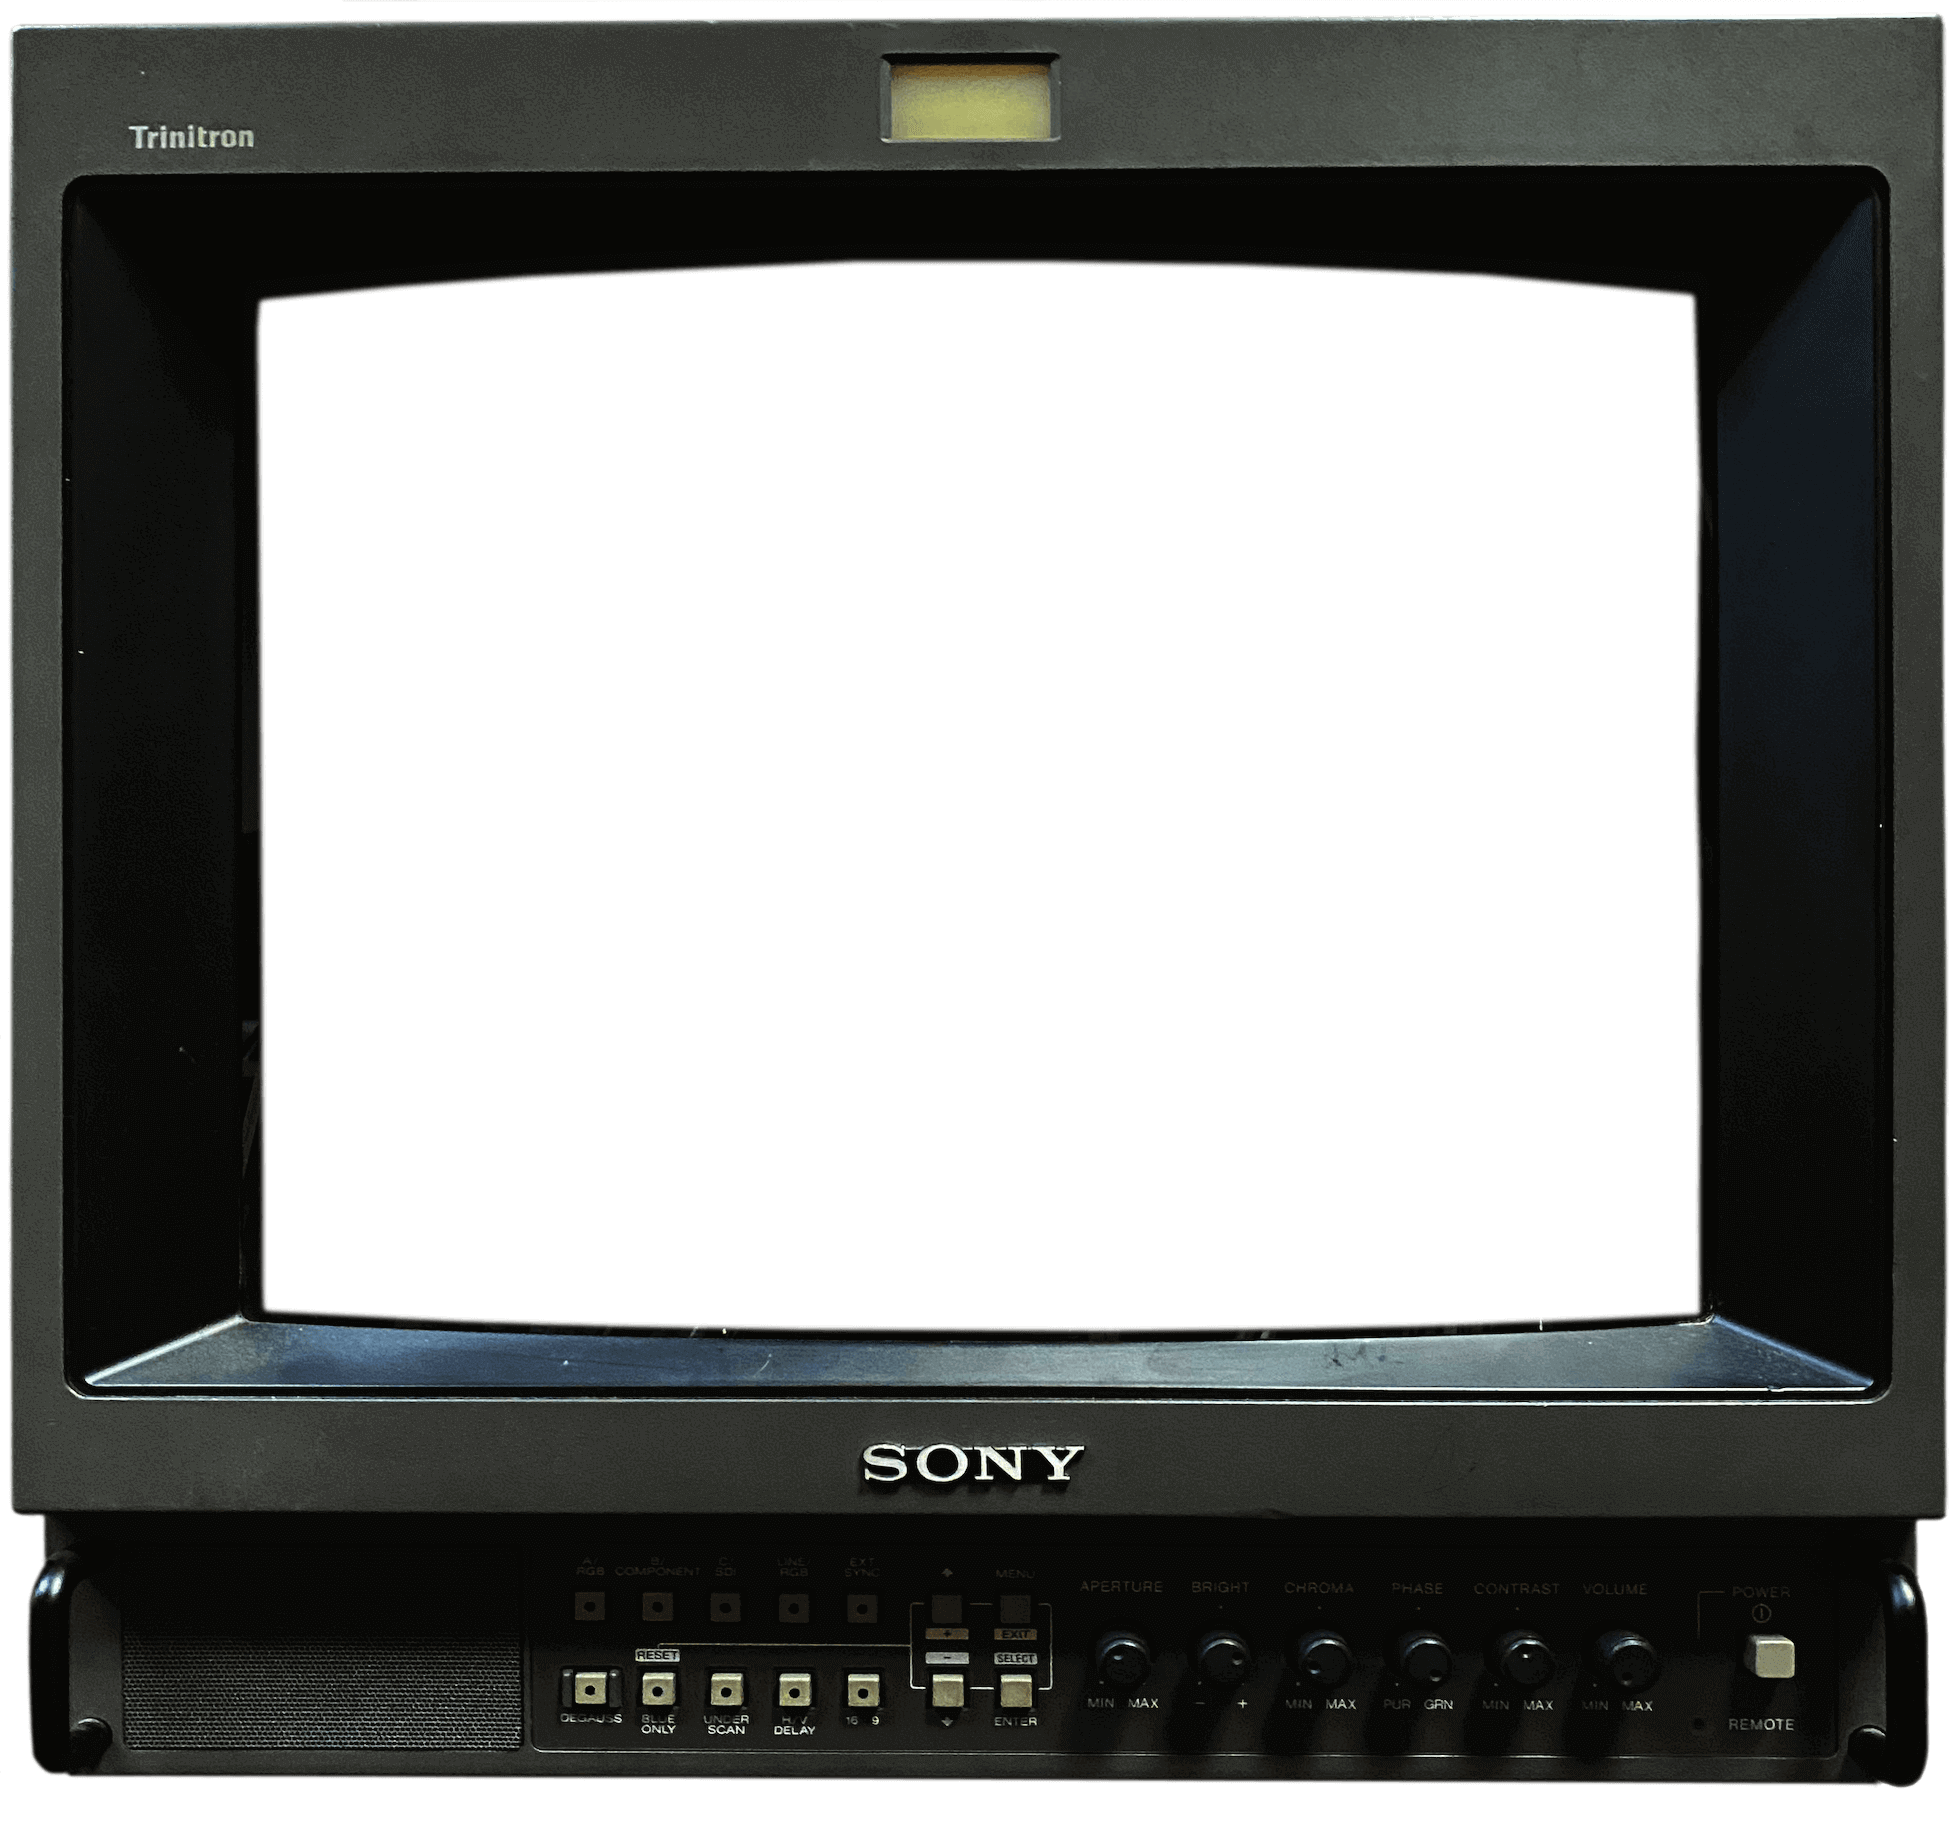
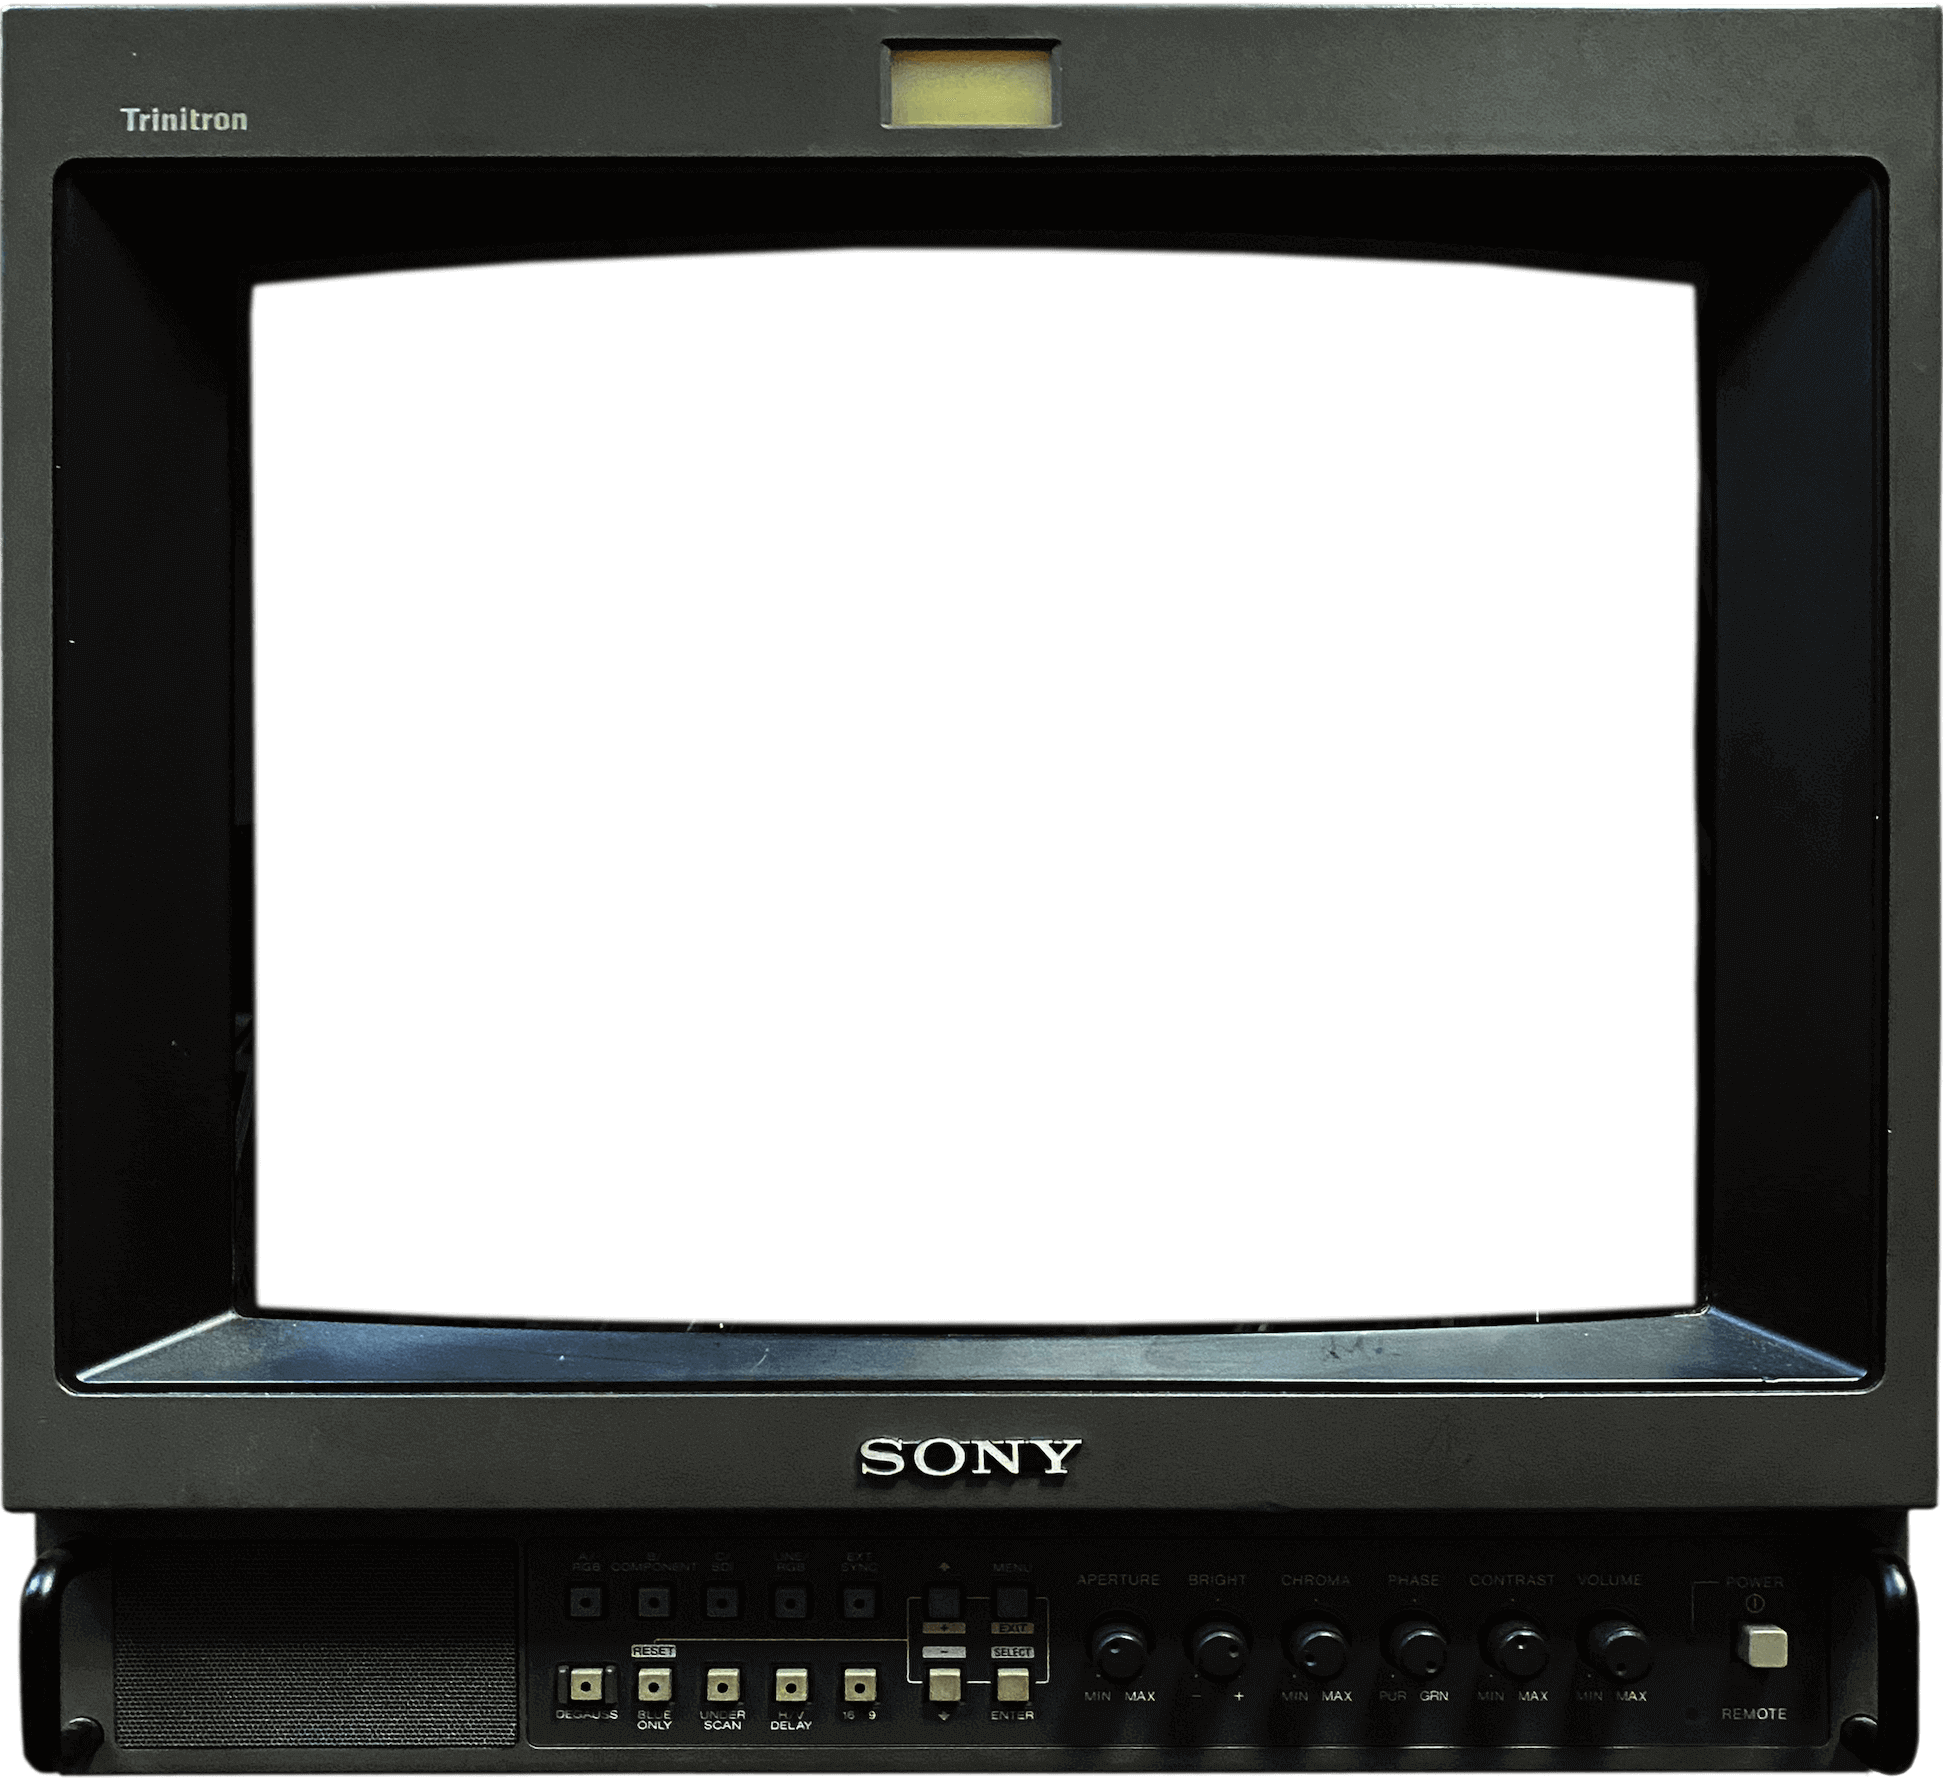
moved BGimage

Changed region(s): [[0.0, 0.0, 1.0, 1.0], [0.1853, 0.1237, 0.8029, 0.1546]]

diff --git a/styles.css b/styles.css
@@ -68,7 +68,7 @@ body {
   display: flex;
   flex-wrap: wrap;
   /* outline: solid red 1px; */
-  background-image: url(sonyMonitorTiny.png);
+  background-image: url(/images/sonyMonitorTiny.png);
   background-position: top center;
   background-repeat: no-repeat;
   background-size: 136%;
